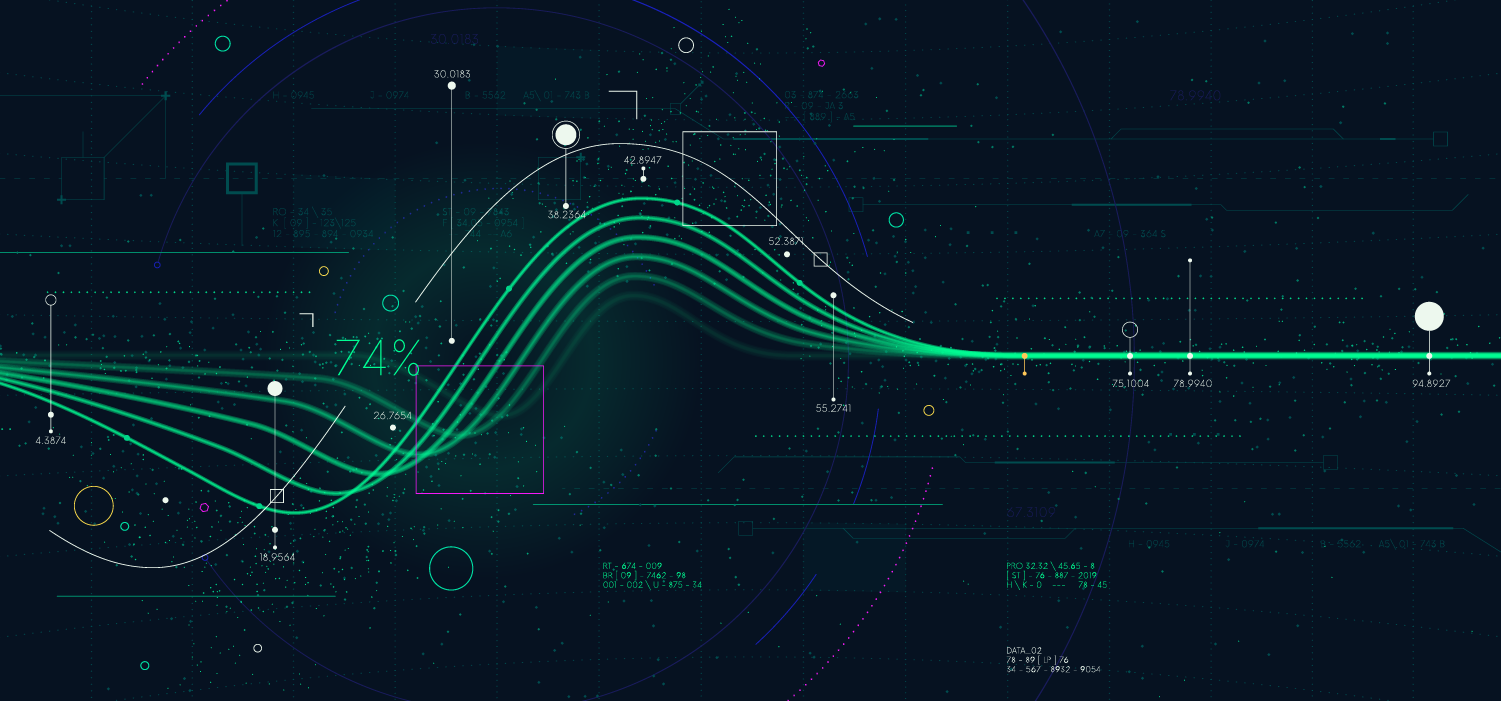
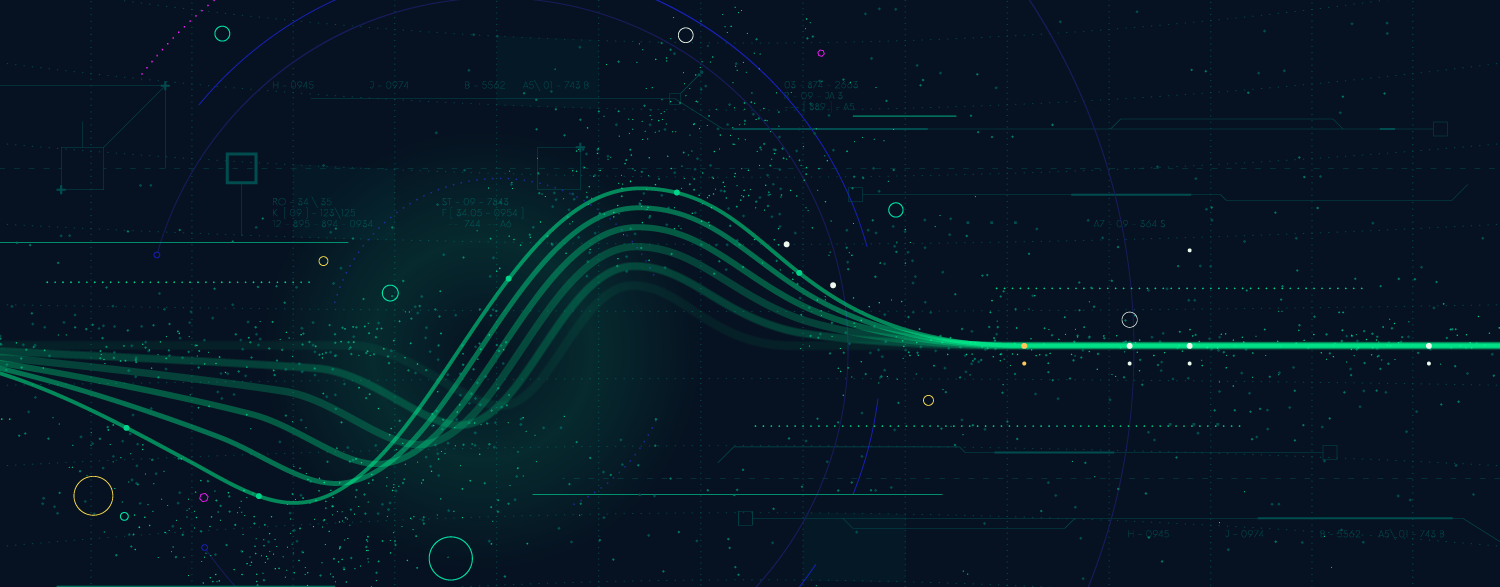
Fix Solutions Bg

diff --git a/solutions.html b/solutions.html
@@ -78,16 +78,26 @@
         <section class="bg-home-solutions align-items-center pb-5">
             <div class="container">
                 <div class="row align-items-center">
-                    <div class="col-lg-6">
-                        <div class="breadcrumb-textBx">
-                            <h2 class="text-white text-capitalize">
+                    <div class="col-lg-12">
+                        <div class="home-text mt-5">
+                            <h1 class="f-40">
+                                <span class="text-white" style="background-color: #3390ff">Skylights Energy</span><br />
+                                <span
+                                    style="background-color: #3390ff"
+                                    class="element text-white"
+                                    data-elements="Affordable prices for professional services., At right location with right way of servicing., Experience it and then Trust our advice,Lorem Ipsum Dolor Sit."
+                                ></span>
+                            </h1>
+                        </div>
+                        <!-- <div class="breadcrumb-textBx"> -->
+                        <!-- <h2 class="text-white text-capitalize">
                                 Lorem ipsum dolor sit, amet consectetur adipisicing elit. Quibusdam, quae.
-                            </h2>
-                            <!-- <p class="breadcrumb-text text-white">
+                            </h2> -->
+                        <!-- <p class="breadcrumb-text text-white">
                                 <span><a class="text-primary" href="index.html">Home</a></span
                                 >&nbsp;<i class="mdi mdi-chevron-right"></i>&nbsp;Solutions
                             </p> -->
-                        </div>
+                        <!-- </div> -->
                     </div>
                     <!-- <div class="col-lg-6">
                         <div class="breadcrumb-imgBx">
@@ -387,6 +397,17 @@
         <script src="js/jquery.min.js"></script>
         <script src="js/bootstrap.bundle.min.js"></script>
         <script src="js/jquery.easing.min.js"></script>
+        <script src="js/typed.js"></script>
         <script src="js/app.js"></script>
+        <script>
+            $(".element").each(function () {
+                var $this = $(this);
+                $this.typed({
+                    strings: $this.attr("data-elements").split(","),
+                    typeSpeed: 100, // typing speed
+                    backDelay: 3000, // pause before backspacing
+                });
+            });
+        </script>
     </body>
 </html>

diff --git a/scss/_home.scss b/scss/_home.scss
@@ -190,12 +190,11 @@ svg {
 
 .bg-home-solutions {
     margin-top: 120px;
-    // padding: 400px 0px;
-    // background-image: url("../assets/solutions/SKYLIGHTS6a.jpg");
+    // padding: 400px 100px;
     background-image: url("../assets/solutions/SKYLIGHTS6a.png");
     background-position: center center;
     position: relative;
-    height: 80vh;
+    height: 60vh;
     display: flex;
     background-repeat: no-repeat;
     // background-size: contain;
@@ -207,21 +206,38 @@ svg {
 }
 
 @keyframes banner-solutions {
+    // 0% {
+    //     background-image: url("../assets/solutions/SKYLIGHTS6a.png");
+    // }
+    // 25% {
+    //     background-image: url("../assets/solutions/SKYLIGHTS6b.png");
+    // }
+    // 50% {
+    //     background-image: url("../assets/solutions/SKYLIGHTS6c.png");
+    // }
+    // 75% {
+    //     background-image: url("../assets/solutions/SKYLIGHTS6d.png");
+    // }
+    // 100% {
+    //     background-image: url("../assets/solutions/SKYLIGHTS6e.png");
+    // }
     0% {
-        // background-image: url("../assets/solutions/SKYLIGHTS6a.jpg");
         background-image: url("../assets/solutions/SKYLIGHTS6a.png");
     }
-    25% {
-        // background-image: url("../assets/solutions/SKYLIGHTS6b.jpg");
+    18% {
         background-image: url("../assets/solutions/SKYLIGHTS6b.png");
     }
-    50% {
-        // background-image: url("../assets/solutions/SKYLIGHTS6c.jpg");
+    36% {
         background-image: url("../assets/solutions/SKYLIGHTS6c.png");
     }
-    100% {
-        // background-image: url("../assets/solutions/SKYLIGHTS6d.jpg");
+    54% {
         background-image: url("../assets/solutions/SKYLIGHTS6d.png");
+    }
+    72% {
+        background-image: url("../assets/solutions/SKYLIGHTS6e.png");
+    }
+    100% {
+        background-image: url("../assets/solutions/SKYLIGHTS6f.png");
     }
 }
 @media (max-width: 991px) {

diff --git a/scss/style.css b/scss/style.css
@@ -1269,7 +1269,7 @@ svg {
   background-image: url("../assets/solutions/SKYLIGHTS6a.png");
   background-position: center center;
   position: relative;
-  height: 80vh;
+  height: 60vh;
   display: flex;
   background-repeat: no-repeat;
   background-size: cover;
@@ -1286,14 +1286,20 @@ svg {
   0% {
     background-image: url("../assets/solutions/SKYLIGHTS6a.png");
   }
-  25% {
+  18% {
     background-image: url("../assets/solutions/SKYLIGHTS6b.png");
   }
-  50% {
+  36% {
     background-image: url("../assets/solutions/SKYLIGHTS6c.png");
   }
-  100% {
+  54% {
     background-image: url("../assets/solutions/SKYLIGHTS6d.png");
+  }
+  72% {
+    background-image: url("../assets/solutions/SKYLIGHTS6e.png");
+  }
+  100% {
+    background-image: url("../assets/solutions/SKYLIGHTS6f.png");
   }
 }
 
@@ -1301,14 +1307,20 @@ svg {
   0% {
     background-image: url("../assets/solutions/SKYLIGHTS6a.png");
   }
-  25% {
+  18% {
     background-image: url("../assets/solutions/SKYLIGHTS6b.png");
   }
-  50% {
+  36% {
     background-image: url("../assets/solutions/SKYLIGHTS6c.png");
   }
-  100% {
+  54% {
     background-image: url("../assets/solutions/SKYLIGHTS6d.png");
+  }
+  72% {
+    background-image: url("../assets/solutions/SKYLIGHTS6e.png");
+  }
+  100% {
+    background-image: url("../assets/solutions/SKYLIGHTS6f.png");
   }
 }
 @media (max-width: 991px) {
